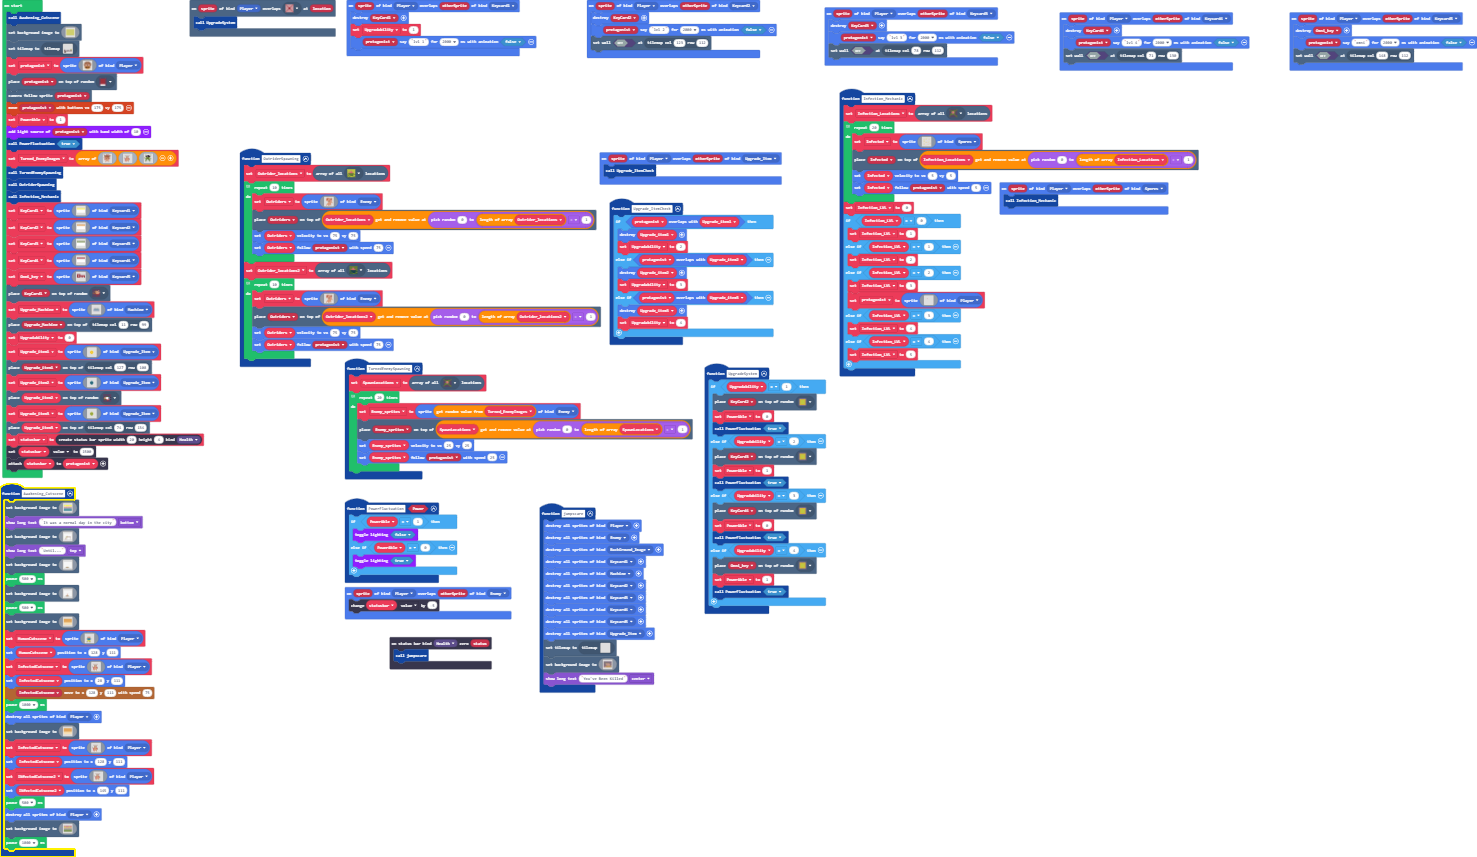
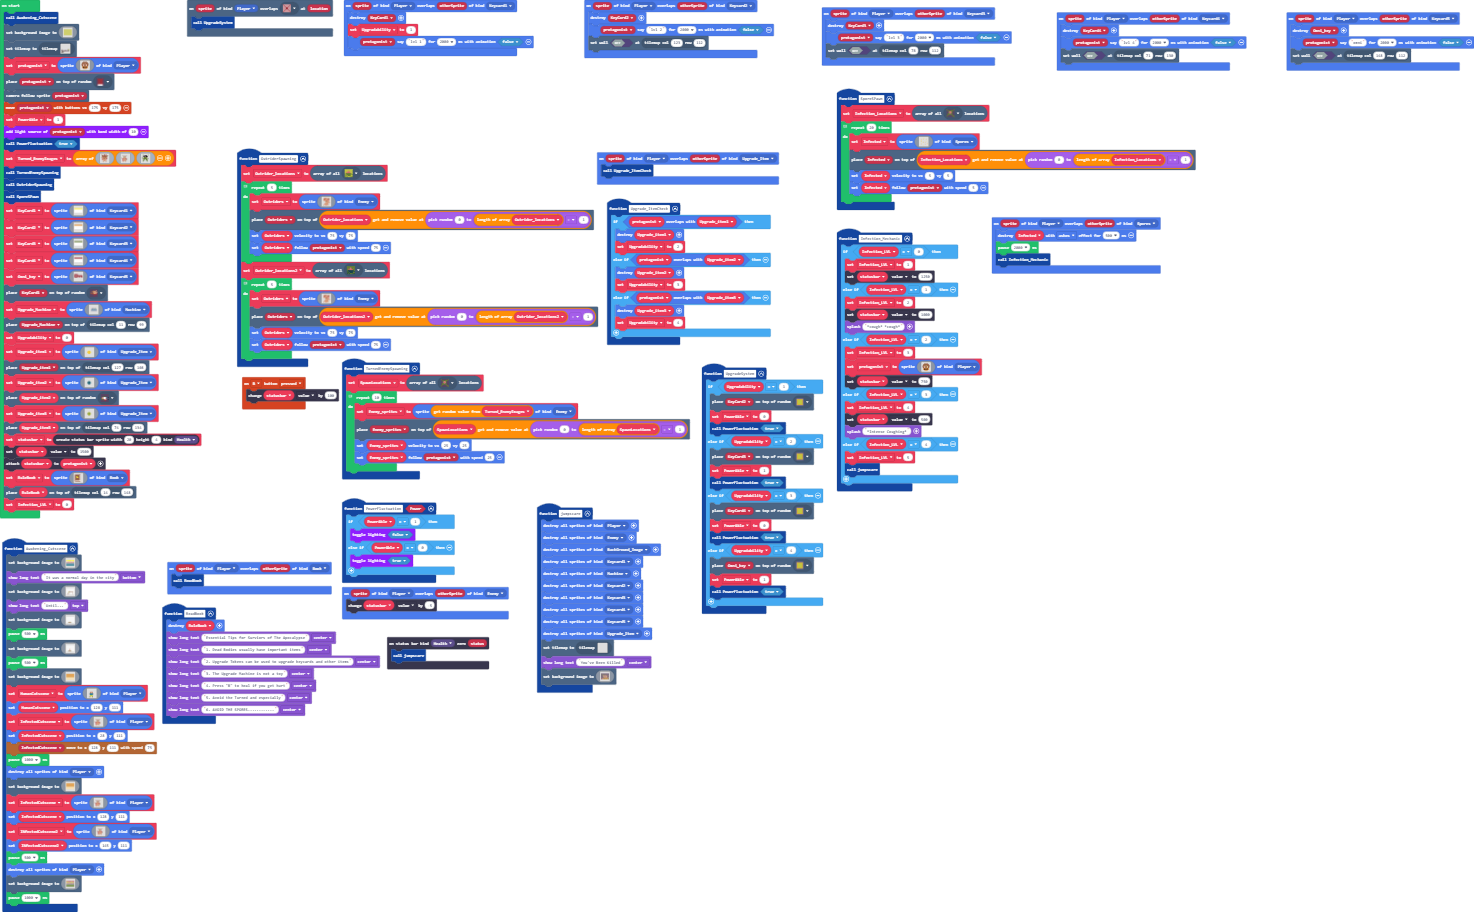
Update main.blocks, main.ts, images.g.jres, images.g.ts

Changed region(s): [[0.0, 0.0, 0.8114, 1.0], [0.1248, 0.0, 0.5305, 0.091], [0.7178, 0.0, 1.0, 0.091]]

diff --git a/main.ts b/main.ts
@@ -8,6 +8,7 @@ namespace SpriteKind {
     export const Keycard5 = SpriteKind.create()
     export const Upgrade_Item = SpriteKind.create()
     export const Spores = SpriteKind.create()
+    export const Book = SpriteKind.create()
 }
 sprites.onOverlap(SpriteKind.Player, SpriteKind.Keycard2, function (sprite, otherSprite) {
     sprites.destroy(KeyCard2)
@@ -18,6 +19,9 @@ sprites.onOverlap(SpriteKind.Player, SpriteKind.Keycard5, function (sprite, othe
     sprites.destroy(Omni_key)
     protagonist.sayText("omni", 2000, false)
     tiles.setWallAt(tiles.getTileLocation(148, 112), false)
+})
+controller.B.onEvent(ControllerButtonEvent.Pressed, function () {
+    statusbar.value += 100
 })
 sprites.onOverlap(SpriteKind.Player, SpriteKind.Keycard1, function (sprite, otherSprite) {
     sprites.destroy(KeyCard1)
@@ -48,8 +52,8 @@ function jumpscare () {
     sprites.destroyAllSpritesOfKind(SpriteKind.Keycard5)
     sprites.destroyAllSpritesOfKind(SpriteKind.Upgrade_Item)
     tiles.setCurrentTilemap(tilemap`jumpscare_level`)
-    scene.setBackgroundImage(assets.image`scary`)
     game.showLongText("You've Been Killed", DialogLayout.Center)
+    scene.setBackgroundImage(assets.image`scary`)
 }
 function Upgrade_ItemCheck () {
     if (protagonist.overlapsWith(Upgrade_item1)) {
@@ -83,11 +87,33 @@ function UpgradeSystem () {
     }
 }
 sprites.onOverlap(SpriteKind.Player, SpriteKind.Spores, function (sprite, otherSprite) {
+    sprites.destroy(Infected, effects.ashes, 500)
+    pause(2000)
     Infection_Mechanic()
 })
+function SporeSPawn () {
+    Infection_Locations = tiles.getTilesByType(assets.tile`budding_tile`)
+    // Make a list of random velocities for enemies then change them depending on lights on or off
+    for (let index = 0; index < 20; index++) {
+        Infected = sprites.create(assets.image`Spores`, SpriteKind.Spores)
+        tiles.placeOnTile(Infected, Infection_Locations.removeAt(randint(0, Infection_Locations.length - 1)))
+        Infected.setVelocity(5, 5)
+        Infected.follow(protagonist, 5)
+    }
+}
 statusbars.onZero(StatusBarKind.Health, function (status) {
     jumpscare()
 })
+function ReadBook () {
+    sprites.destroy(RuleBook)
+    game.showLongText("Essential Tips for Surviors of The Apocalypse", DialogLayout.Center)
+    game.showLongText("1. Dead Bodies usually have important items", DialogLayout.Center)
+    game.showLongText("2. Upgrade Tokens can be used to upgrade keycards and other items", DialogLayout.Center)
+    game.showLongText("3. The Upgrade Machine is not a toy", DialogLayout.Center)
+    game.showLongText("4. Press \"B\" to heal if you get hurt", DialogLayout.Center)
+    game.showLongText("5. Avoid the Turned and especially", DialogLayout.Center)
+    game.showLongText("6. AVOID THE SPORES............", DialogLayout.Center)
+}
 function Awakening_Cutscene () {
     scene.setBackgroundImage(assets.image`City_NotDestroyed`)
     game.showLongText("It was a normal day in the city", DialogLayout.Bottom)
@@ -119,32 +145,30 @@ sprites.onOverlap(SpriteKind.Player, SpriteKind.Upgrade_Item, function (sprite, 
     Upgrade_ItemCheck()
 })
 function Infection_Mechanic () {
-    Infection_Locations = tiles.getTilesByType(assets.tile`budding_tile`)
-    // Make a list of random velocities for enemies then change them depending on lights on or off
-    for (let index = 0; index < 20; index++) {
-        Infected = sprites.create(assets.image`Spores`, SpriteKind.Spores)
-        tiles.placeOnTile(Infected, Infection_Locations.removeAt(randint(0, Infection_Locations.length - 1)))
-        Infected.setVelocity(5, 5)
-        Infected.follow(protagonist, 5)
-    }
-    Infection_LVL = 0
     if (Infection_LVL == 0) {
         Infection_LVL = 1
+        statusbar.value = 1250
     } else if (Infection_LVL == 1) {
         Infection_LVL = 2
+        statusbar.value = 1000
+        game.splash("*cough* *cough*")
     } else if (Infection_LVL == 2) {
         Infection_LVL = 3
-        protagonist = sprites.create(assets.image`delete now`, SpriteKind.Player)
+        protagonist = sprites.create(assets.image`PrisonProtagonist_infected_LVL1`, SpriteKind.Player)
+        statusbar.value = 750
     } else if (Infection_LVL == 3) {
         Infection_LVL = 4
+        statusbar.value = 500
+        game.splash("*Intense Coughing*")
     } else if (Infection_LVL == 4) {
         Infection_LVL = 5
+        jumpscare()
     }
 }
 function TurnedEnemySpawning () {
     SpawnLocations = tiles.getTilesByType(assets.tile`budding_tile`)
     // Make a list of random velocities for enemies then change them depending on lights on or off
-    for (let index = 0; index < 20; index++) {
+    for (let index = 0; index < 10; index++) {
         Enemy_sprites = sprites.create(Turned_EnemyImages._pickRandom(), SpriteKind.Enemy)
         tiles.placeOnTile(Enemy_sprites, SpawnLocations.removeAt(randint(0, SpawnLocations.length - 1)))
         Enemy_sprites.setVelocity(25, 25)
@@ -162,7 +186,7 @@ scene.onOverlapTile(SpriteKind.Player, assets.tile`target_tile`, function (sprit
 function OutriderSpawning () {
     Outrider_locations = tiles.getTilesByType(assets.tile`fully_grown_flower`)
     // Make a list of random velocities for enemies then change them depending on lights on or off
-    for (let index = 0; index < 10; index++) {
+    for (let index = 0; index < 5; index++) {
         Outriders = sprites.create(assets.image`Outrider`, SpriteKind.Enemy)
         tiles.placeOnTile(Outriders, Outrider_locations.removeAt(randint(0, Outrider_locations.length - 1)))
         Outriders.setVelocity(75, 75)
@@ -170,13 +194,16 @@ function OutriderSpawning () {
     }
     Outrider_locations2 = tiles.getTilesByType(assets.tile`fully_grown_flower0`)
     // Make a list of random velocities for enemies then change them depending on lights on or off
-    for (let index = 0; index < 10; index++) {
+    for (let index = 0; index < 5; index++) {
         Outriders = sprites.create(assets.image`Outrider`, SpriteKind.Enemy)
         tiles.placeOnTile(Outriders, Outrider_locations2.removeAt(randint(0, Outrider_locations2.length - 1)))
         Outriders.setVelocity(75, 75)
         Outriders.follow(protagonist, 75)
     }
 }
+sprites.onOverlap(SpriteKind.Player, SpriteKind.Book, function (sprite, otherSprite) {
+    ReadBook()
+})
 sprites.onOverlap(SpriteKind.Player, SpriteKind.Enemy, function (sprite, otherSprite) {
     statusbar.value += -5
 })
@@ -185,12 +212,13 @@ let Outriders: Sprite = null
 let Outrider_locations: tiles.Location[] = []
 let Enemy_sprites: Sprite = null
 let SpawnLocations: tiles.Location[] = []
-let Infection_LVL = 0
-let Infected: Sprite = null
-let Infection_Locations: tiles.Location[] = []
 let INfectedCutscene2: Sprite = null
 let InfectedCutscene: Sprite = null
 let HumanCutscene: Sprite = null
+let Infection_Locations: tiles.Location[] = []
+let Infected: Sprite = null
+let Infection_LVL = 0
+let RuleBook: Sprite = null
 let statusbar: StatusBarSprite = null
 let Upgrade_item3: Sprite = null
 let Upgrade_item2: Sprite = null
@@ -217,7 +245,7 @@ PowerFluctuation(true)
 Turned_EnemyImages = [assets.image`turned_large`, assets.image`turned_small`, assets.image`PlunderCrawler`]
 TurnedEnemySpawning()
 OutriderSpawning()
-Infection_Mechanic()
+SporeSPawn()
 KeyCard1 = sprites.create(assets.image`Keycard1`, SpriteKind.Keycard1)
 KeyCard2 = sprites.create(assets.image`Keycard2`, SpriteKind.Keycard2)
 KeyCard3 = sprites.create(assets.image`Keycard3`, SpriteKind.Keycard3)
@@ -236,3 +264,6 @@ tiles.placeOnTile(Upgrade_item3, tiles.getTileLocation(74, 134))
 statusbar = statusbars.create(20, 4, StatusBarKind.Health)
 statusbar.value = 1500
 statusbar.attachToSprite(protagonist)
+RuleBook = sprites.create(assets.image`rulebook`, SpriteKind.Book)
+tiles.placeOnTile(RuleBook, tiles.getTileLocation(14, 148))
+Infection_LVL = 0

diff --git a/images.g.ts b/images.g.ts
@@ -1673,6 +1673,25 @@ bbbbbbbbbbbbbbbbbbbbbbbbbbbbbbbbbbbbbbbbbbbbbbbbbbbbbbbbbbbbbbbbbbbbbbbbbbbbbbbb
 . . . . . . . . . . . . . . . . 
 . . . . . . . . . . . . . . . . 
 `;
+            case "image30":
+            case "rulebook":return img`
+. . . . . . . . . . . . . . . . 
+. e e e e e e e e e e e . . . . 
+. e e e e e e e e e e c . . . . 
+. e e e e e e e e e e c . . . . 
+. e e e e 9 9 9 e e e c . . . . 
+. e e e 9 9 f f e e e c . . . . 
+. e e e 9 9 9 9 e e e c . . . . 
+. e e e e 9 e 9 e e e c . . . . 
+. e e e e e e e e e e c . . . . 
+. e e e e e e e e e e c . . . . 
+. e e e e e e e e e e c . . . . 
+. e e e e e e e e e e c . . . . 
+. e e e e e e e e e e c . . . . 
+. e c c c c c c c c c c . . . . 
+. e e e e e e e e e e e . . . . 
+. . . . . . . . . . . . . . . . 
+`;
             case "image29":
             case "PrisonProtagonist_infected_LVL1":return img`
 . . . . . . . . . . . . . . . . 
